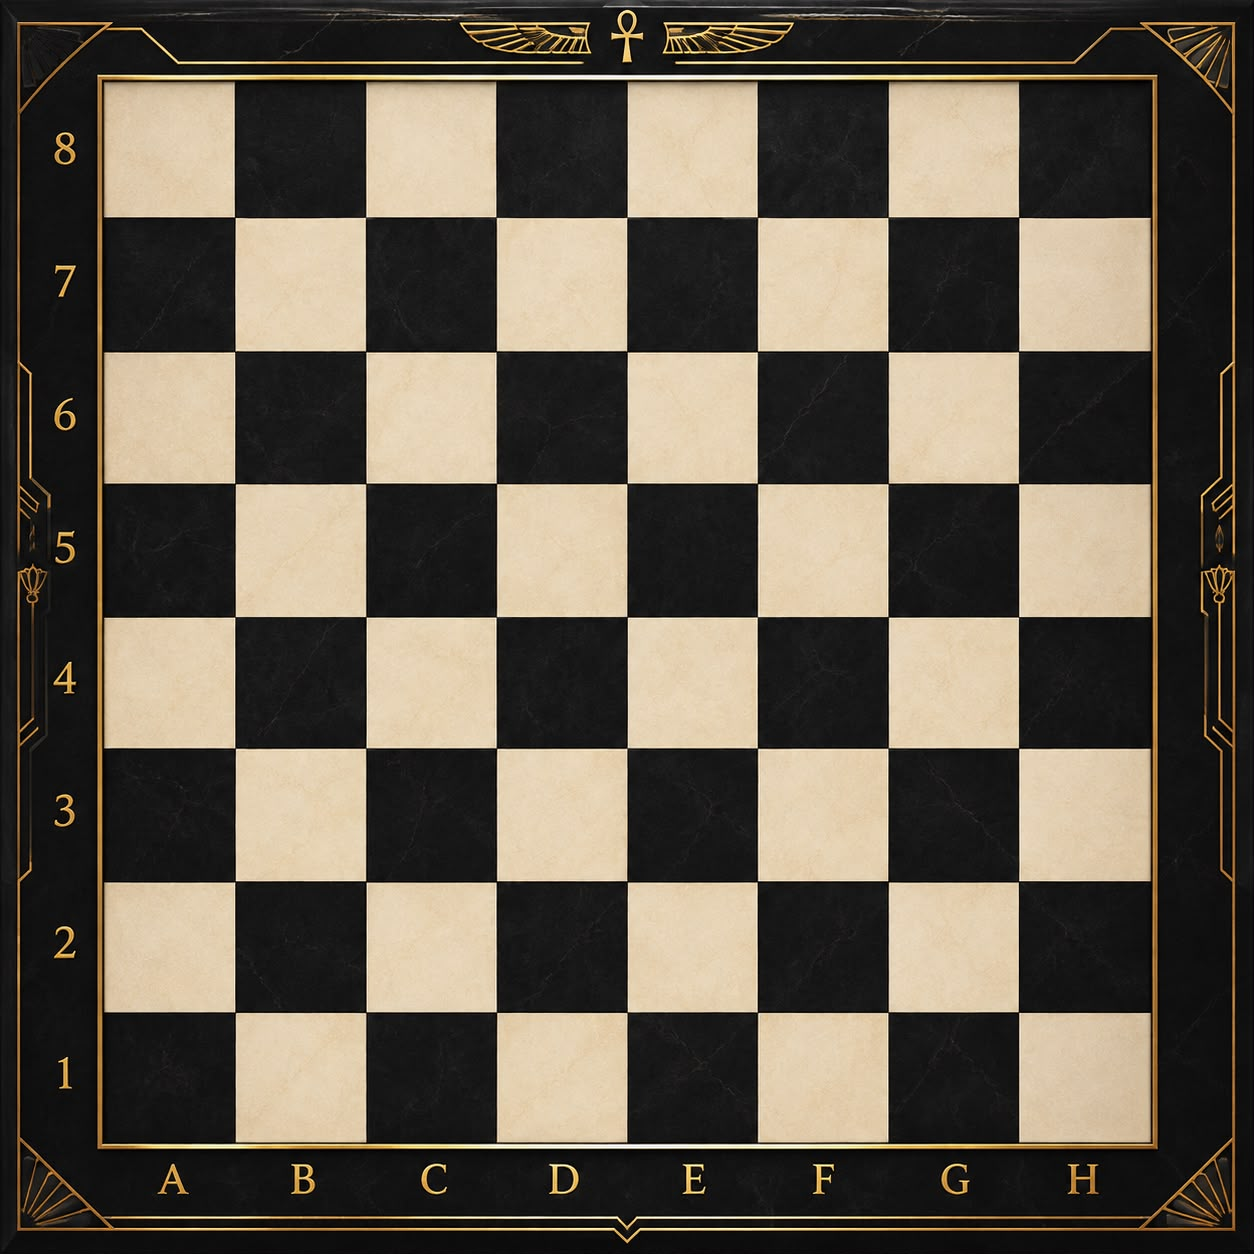
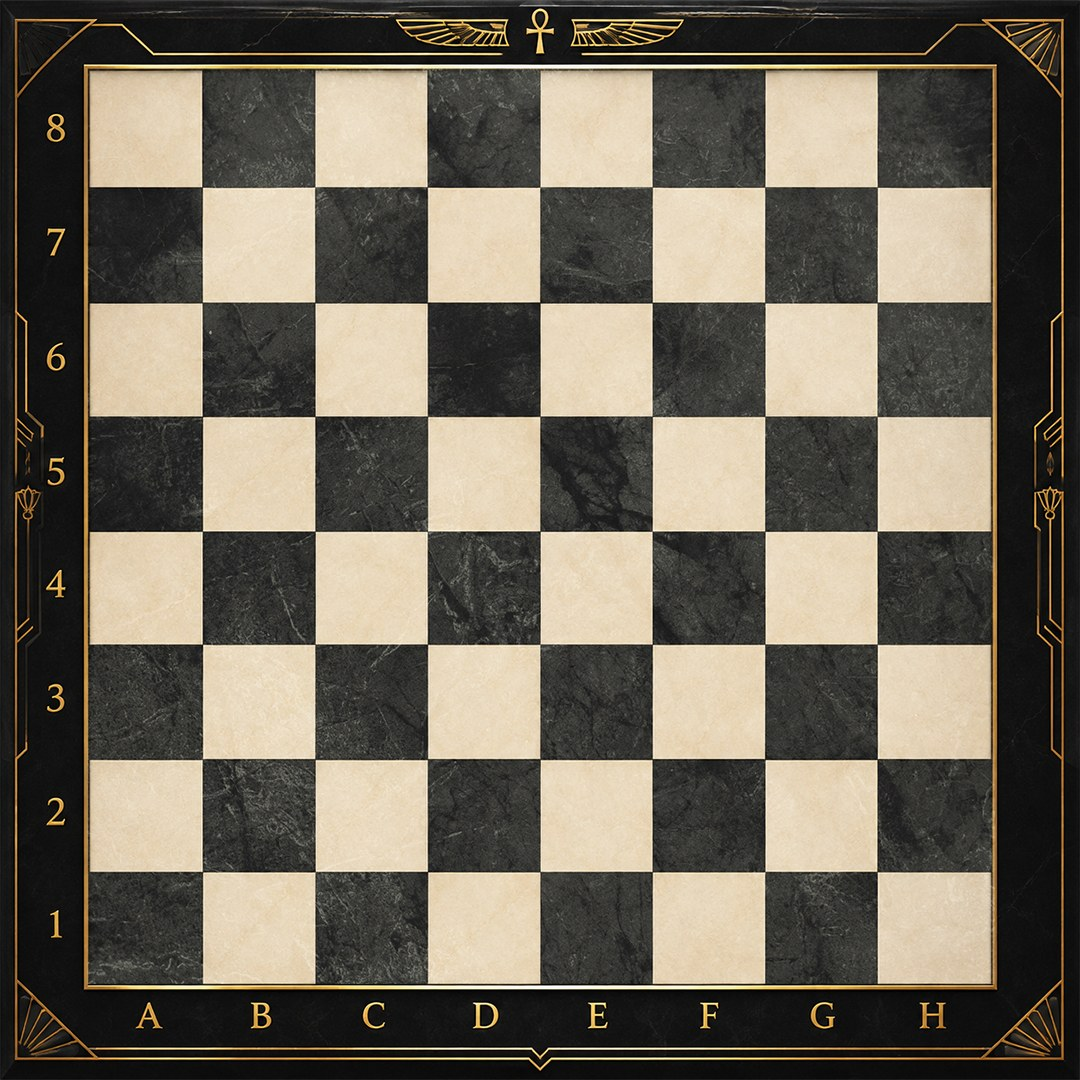
Chess: show capture questions on an unrolling scroll over the board
The question opens on a parchment scroll between the attacking and
threatened pieces, with the board blurred behind it. Each choice has a
small pawn; on reveal the pawns show who picked which answer. Also
updates the board image.

diff --git a/src/components/room/ChessGame.tsx b/src/components/room/ChessGame.tsx
@@ -7,7 +7,7 @@ import { sounds } from "@/lib/sound";
 import { teamInfo } from "@/lib/teams";
 import type { ChessColor, ChessEvent, ChessState, Player, Room } from "@/lib/types";
 import { ErrorBox } from "../ui";
-import { msLeft, TimerBar, useServerNow } from "./QuestionView";
+import { msLeft, useServerNow } from "./QuestionView";
 
 type Call = (fn: string, args?: Record<string, unknown>) => Promise<unknown>;
 
@@ -129,8 +129,12 @@ export function ChessGame({
         ? "🏁 انتهت اللعبة"
         : "❓ سؤال الأكل";
 
+  // أثناء سؤال الأكل يظهر السؤال على ورقة فوق الرقعة
+  const asking = c.phase === "question" || c.phase === "reveal";
   return (
     <section className="mx-auto w-full max-w-2xl space-y-3">
+      {asking && error && <ErrorBox>{error}</ErrorBox>}
+
       <SideBar c={c} color={mine === "w" ? "b" : "w"} turn={turn} players={players} name={name} />
 
       <div className="relative">
@@ -144,25 +148,21 @@ export function ChessGame({
           name={name}
           onMove={play}
         />
+        {asking && (
+          <CaptureQuestion room={room} c={c} mine={mine} isCaptain={isCaptain} now={now} onAnswer={act} />
+        )}
         <CaptureShow c={c} />
       </div>
 
       <SideBar c={c} color={mine === "b" ? "b" : "w"} turn={turn} players={players} name={name} />
 
-      <div className="space-y-3 rounded-3xl border border-white/10 bg-white/5 p-4 text-center">
-        <p className="text-lg font-black">{status}</p>
-        {(c.phase === "question" || c.phase === "reveal") && (
-          <CaptureQuestion room={room} c={c} mine={mine} isCaptain={isCaptain} players={players} onAnswer={act} />
-        )}
-        {c.phase === "move" && <p className="text-sm text-indigo-200">{lastText(c, players)}</p>}
-        {error && <ErrorBox>{error}</ErrorBox>}
-        {(c.phase === "question" || c.phase === "reveal") && (
-          <TimerBar
-            seconds={msLeft(room.question_deadline, now)}
-            total={c.phase === "question" ? room.question_seconds : REVEAL_SECONDS}
-          />
-        )}
-      </div>
+      {!asking && (
+        <div className="space-y-3 rounded-3xl border border-white/10 bg-white/5 p-4 text-center">
+          <p className="text-lg font-black">{status}</p>
+          {c.phase === "move" && <p className="text-sm text-indigo-200">{lastText(c, players)}</p>}
+          {error && <ErrorBox>{error}</ErrorBox>}
+        </div>
+      )}
 
       {/* اقتراحات الفريق */}
       {c.phase === "move" && mine === turn && suggestions.length > 0 && (
@@ -462,99 +462,164 @@ function Board({
 
 // ---------- سؤال الأكل ----------
 
+// حافة الورقة الممزقة (نقاط ثابتة حتى لا تتغير بين الرسومات)
+const TORN = (() => {
+  const top: string[] = [];
+  const bottom: string[] = [];
+  for (let i = 0; i <= 40; i++) {
+    const x = i * 2.5;
+    top.push(`${x}% ${(1.2 + Math.sin(i * 2.3) * 1.1 + Math.sin(i * 5.1) * 0.6).toFixed(2)}%`);
+    bottom.unshift(`${x}% ${(98.8 - Math.sin(i * 1.7 + 1) * 1.1 - Math.sin(i * 4.3) * 0.6).toFixed(2)}%`);
+  }
+  return `polygon(${[...top, ...bottom].join(",")})`;
+})();
+
+/** سؤال الأكل: ورقة تنفتح بين المهاجم والمدافع فوق الرقعة، والاختيارات بجانبها عساكر */
 function CaptureQuestion({
   room,
   c,
   mine,
   isCaptain,
-  players,
+  now,
   onAnswer,
 }: {
   room: Room;
   c: ChessState;
   mine: ChessColor | null;
   isCaptain: boolean;
-  players: Player[];
+  now: number;
   onAnswer: (fn: string, args: Record<string, unknown>) => void;
 }) {
   const q = room.question;
   const p = c.pending;
   if (!q || !p) return null;
+  const foe: ChessColor = p.by === "w" ? "b" : "w";
   const reveal = c.phase === "reveal" ? c.reveal : null;
   const canAnswer = c.phase === "question" && isCaptain && mine != null && !c.answered[mine];
   const myChoice = reveal && mine ? reveal[mine] : null;
+  const pawn = mine ?? p.by;
+  const total = c.phase === "question" ? room.question_seconds : REVEAL_SECONDS;
+  const left = msLeft(room.question_deadline, now);
+  const pct = Math.max(0, Math.min(100, (left / (total * 1000)) * 100));
+  const img = (color: ChessColor, piece: string) => chessImg(`pieces/${color}${piece}.png`);
+
+  const result = reveal
+    ? reveal.ok
+      ? p.k < p.need
+        ? `✅ صح! السؤال التالي (${p.k + 1} من ${p.need})`
+        : `✅ صح! ${PIECE_NAME[p.captured]} تُؤكل`
+      : reveal[p.by === "w" ? "w_ok" : "b_ok"]
+        ? `🛡 ${COLOR_NAME[foe]} أجاب صح أسرع! الحركة أُلغيت`
+        : "❌ خطأ! الحركة أُلغيت"
+    : null;
 
   return (
-    <div className="space-y-3">
-      <p className="rounded-2xl bg-rose-500/15 px-3 py-2 text-sm">
-        {/* eslint-disable-next-line @next/next/no-img-element */}
-        <img src={chessImg(`pieces/${p.by}${p.piece}.png`)} alt="" className="inline-block h-6 w-6 align-middle" />{" "}
-        {COLOR_NAME[p.by]} ({sideName(c, p.by, players)}) يهاجم {PIECE_NAME[p.captured]}{" "}
-        <span dir="ltr">({p.san})</span>
-        {p.need > 1 && (
-          <b>
-            {" "}
-            • سؤال {p.k} من {p.need}
-          </b>
-        )}
-        <br />
-        <span className="text-xs text-indigo-200">
-          إجابة المهاجم الصحيحة = تُؤكل القطعة، والخاطئة = تُلغى الحركة. وإن أجاب الاثنان صح، الأسرع يفوز.
-        </span>
-      </p>
-      <p className="text-xs text-indigo-200">
-        {q.icon} {q.category}
-      </p>
-      <h3 className="text-xl font-black leading-relaxed">{q.text}</h3>
-      <div className="grid grid-cols-2 gap-2">
-        {q.options.map((opt, i) => {
-          const correct = reveal && reveal.correct === i;
-          const wrongMine = reveal && myChoice === i && !correct;
-          return (
-            <button
-              key={i}
-              onClick={() => onAnswer("chess_answer", { p_choice: i })}
-              disabled={!canAnswer}
-              className={`rounded-2xl px-3 py-3 font-bold transition ${
-                correct
-                  ? "bg-emerald-500 text-white"
-                  : wrongMine
-                    ? "bg-rose-500 text-white"
-                    : canAnswer
-                      ? "bg-white/10 hover:bg-indigo-500/40"
-                      : "bg-white/10 opacity-70"
-              }`}
-            >
-              {opt}
-              {reveal && (["w", "b"] as const).some((col) => reveal[col] === i) && (
-                <span className="block text-xs font-normal opacity-90">
-                  {(["w", "b"] as const)
-                    .filter((col) => reveal[col] === i)
-                    .map((col) => COLOR_NAME[col])
-                    .join(" و")}
-                </span>
+    <div
+      key={room.current_index}
+      className="scroll-backdrop absolute inset-0 z-10 mx-auto flex aspect-square max-w-[480px] items-center overflow-y-auto rounded-lg bg-black/45 px-[3%] pb-[3%] pt-[13%] backdrop-blur-[3px]"
+    >
+      <div className="relative w-full" dir="ltr">
+        {/* الورقة */}
+        <div className="scroll-paper mx-[3%] drop-shadow-[0_8px_14px_#000a]">
+          <div className="parchment px-[9%] pb-4 pt-[9%] text-[#3b2410]" style={{ clipPath: TORN }} dir="rtl">
+            <div className="scroll-content space-y-2.5 text-center">
+              <p className="text-xs font-bold text-[#7a5226]">
+                ⚔ {PIECE_NAME[p.piece]} {COLOR_NAME[p.by]} يهاجم {PIECE_NAME[p.captured]}
+                {p.need > 1 && ` • سؤال ${p.k} من ${p.need}`}
+                <span className="mx-1 opacity-50">|</span>
+                {q.icon} {q.category}
+              </p>
+              <h3 className="text-base font-black leading-relaxed sm:text-lg">{q.text}</h3>
+
+              <div className="grid grid-cols-2 gap-1.5">
+                {q.options.map((opt, i) => {
+                  const correct = reveal && reveal.correct === i;
+                  const wrongMine = reveal && myChoice === i && !correct;
+                  const choosers = reveal ? (["w", "b"] as const).filter((col) => reveal[col] === i) : [];
+                  return (
+                    <button
+                      key={i}
+                      onClick={() => onAnswer("chess_answer", { p_choice: i })}
+                      disabled={!canAnswer}
+                      className={`flex items-center gap-1.5 rounded-xl border px-2 py-1.5 text-start text-sm font-bold transition ${
+                        correct
+                          ? "border-emerald-900 bg-emerald-700 text-white"
+                          : wrongMine
+                            ? "border-rose-900 bg-rose-700 text-white"
+                            : canAnswer
+                              ? "border-[#7a5226]/40 bg-[#7a5226]/10 hover:border-[#7a5226] hover:bg-amber-300/50 active:scale-[0.98]"
+                              : "border-[#7a5226]/25 bg-[#7a5226]/5 opacity-80"
+                      }`}
+                    >
+                      <span className="flex shrink-0">
+                        {(choosers.length ? choosers : [pawn]).map((col) => (
+                          // eslint-disable-next-line @next/next/no-img-element
+                          <img
+                            key={col}
+                            src={img(col, "p")}
+                            alt=""
+                            className={`h-7 w-7 drop-shadow ${choosers.length || !reveal ? "" : "opacity-30"}`}
+                          />
+                        ))}
+                      </span>
+                      <span className="min-w-0 flex-1 break-words leading-snug">{opt}</span>
+                    </button>
+                  );
+                })}
+              </div>
+
+              {result ? (
+                <p className={`font-black ${reveal?.ok ? "text-emerald-800" : "text-rose-800"}`}>{result}</p>
+              ) : (
+                <p className="flex items-center justify-center gap-3 text-xs font-bold text-[#7a5226]">
+                  {(["w", "b"] as const).map((col) => (
+                    <span key={col} className="flex items-center gap-0.5">
+                      {/* eslint-disable-next-line @next/next/no-img-element */}
+                      <img src={img(col, "p")} alt="" className="h-4 w-4" />
+                      {COLOR_NAME[col]} {c.answered[col] ? "✅" : "⏳"}
+                    </span>
+                  ))}
+                </p>
               )}
-            </button>
+
+              {/* الوقت */}
+              <div className="flex items-center gap-2" dir="ltr">
+                <div className="h-1.5 flex-1 overflow-hidden rounded-full bg-[#7a5226]/25">
+                  <div
+                    className={`h-full rounded-full transition-[width] duration-200 ease-linear ${
+                      left <= 3000 ? "bg-rose-700" : "bg-[#8a5a1c]"
+                    }`}
+                    style={{ width: `${pct}%` }}
+                  />
+                </div>
+                <span className="w-6 text-xs font-black tabular-nums">{Math.ceil(left / 1000)}</span>
+              </div>
+            </div>
+          </div>
+        </div>
+
+        {/* العصوان ملفوفتان على الطرفين، وعليهما القطعتان */}
+        {(["left", "right"] as const).map((side) => {
+          const color = side === "left" ? p.by : foe;
+          const piece = side === "left" ? p.piece : p.captured;
+          return (
+            <div
+              key={side}
+              className={`scroll-rod-${side} scroll-rod absolute -bottom-1 -top-1 w-[5%] rounded-full`}
+              style={{ [side]: 0 }}
+            >
+              {/* eslint-disable-next-line @next/next/no-img-element */}
+              <img
+                src={img(color, piece)}
+                alt={PIECE_NAME[piece]}
+                className={`scroll-piece absolute -top-[min(15vw,72px)] h-[min(21vw,100px)] w-[min(21vw,100px)] max-w-none drop-shadow-[0_6px_6px_#000c] ${
+                  side === "left" ? "-left-[min(8vw,38px)]" : "-right-[min(8vw,38px)]"
+                }`}
+              />
+            </div>
           );
         })}
       </div>
-      {c.phase === "question" ? (
-        <p className="text-sm text-indigo-200">
-          {(["w", "b"] as const).map((col) => `${COLOR_NAME[col]}: ${c.answered[col] ? "✅ أجاب" : "⏳"}`).join(" • ")}
-        </p>
-      ) : (
-        reveal && (
-          <p className={`text-lg font-black ${reveal.ok ? "text-emerald-300" : "text-rose-300"}`}>
-            {reveal.ok
-              ? p.k < p.need
-                ? `✅ صح! السؤال التالي (${p.k + 1} من ${p.need})`
-                : `✅ صح! ${PIECE_NAME[p.captured]} تُؤكل`
-              : reveal[p.by === "w" ? "w_ok" : "b_ok"]
-                ? `🛡 ${COLOR_NAME[p.by === "w" ? "b" : "w"]} أجاب صح أسرع! الحركة أُلغيت`
-                : "❌ خطأ! الحركة أُلغيت"}
-          </p>
-        )
-      )}
     </div>
   );
 }
@@ -665,28 +730,30 @@ function HostControls({
 /** رابط صورة من public/chess (مع مسار النشر على GitHub Pages) */
 export const chessImg = (file: string) => `${process.env.NEXT_PUBLIC_BASE_PATH ?? ""}/chess/${file}`;
 
-// مكان المربعات الـ 64 داخل صورة اللوحة (board.jpeg مقاسها 1254×1254)
+// مكان المربعات الـ 64 داخل صورة اللوحة (board.jpeg مقاسها 1080×1080)
+const BOARD_PX = 1080;
+const AREA = { x: 90, y: 72, w: 901, h: 912 };
 const BOARD_AREA = {
-  left: `${(105 / 1254) * 100}%`,
-  top: `${(84 / 1254) * 100}%`,
-  width: `${(1045 / 1254) * 100}%`,
-  height: `${(1058 / 1254) * 100}%`,
+  left: `${(AREA.x / BOARD_PX) * 100}%`,
+  top: `${(AREA.y / BOARD_PX) * 100}%`,
+  width: `${(AREA.w / BOARD_PX) * 100}%`,
+  height: `${(AREA.h / BOARD_PX) * 100}%`,
 };
 
 /** للاعب الأسود اللوحة مقلوبة: نغطي حروف وأرقام الإطار ونكتبها بترتيبه */
 function FlippedLabels() {
-  const cell = (i: number, size: number, start: number) => `${((start + size * (i + 0.5)) / 1254) * 100}%`;
+  const cell = (i: number, size: number, start: number) => `${((start + size * (i + 0.5)) / BOARD_PX) * 100}%`;
   const label =
     "absolute -translate-x-1/2 -translate-y-1/2 rounded bg-[#151515] px-1.5 font-serif text-[min(4vw,20px)] text-[#d4a84b]";
   return (
     <div className="pointer-events-none absolute inset-0">
       {Array.from({ length: 8 }, (_, i) => (
-        <span key={`r${i}`} className={label} style={{ left: "5.1%", top: cell(i, 132.25, 84) }}>
+        <span key={`r${i}`} className={label} style={{ left: "5.1%", top: cell(i, AREA.h / 8, AREA.y) }}>
           {i + 1}
         </span>
       ))}
       {Array.from({ length: 8 }, (_, i) => (
-        <span key={`f${i}`} className={label} style={{ left: cell(i, 130.6, 105), top: "94.1%" }}>
+        <span key={`f${i}`} className={label} style={{ left: cell(i, AREA.w / 8, AREA.x), top: "94%" }}>
           {"HGFEDCBA"[i]}
         </span>
       ))}

diff --git a/src/app/globals.css b/src/app/globals.css
@@ -107,3 +107,34 @@ body {
 @media (prefers-reduced-motion: reduce) {
   .capture-spark, .capture-flash { display: none; }
 }
+
+/* سؤال الشطرنج: ورقة تنفتح بين القطعتين فوق رقعة مموّهة */
+@keyframes scroll-fade { from { opacity: 0; } to { opacity: 1; } }
+@keyframes scroll-open { from { clip-path: inset(0 50% 0 50%); } to { clip-path: inset(0 0 0 0); } }
+@keyframes scroll-rod-left { from { left: calc(50% - 2.5%); } to { left: 0; } }
+@keyframes scroll-rod-right { from { right: calc(50% - 2.5%); } to { right: 0; } }
+@keyframes scroll-piece-in {
+  0% { transform: translateY(-40%) scale(0.6); opacity: 0; }
+  70% { transform: translateY(4%) scale(1.05); opacity: 1; }
+  100% { transform: translateY(0) scale(1); opacity: 1; }
+}
+.scroll-backdrop { animation: scroll-fade 0.3s ease-out both; }
+.scroll-paper { animation: scroll-open 0.75s cubic-bezier(0.65, 0, 0.35, 1) 0.15s both; }
+.scroll-rod-left { animation: scroll-rod-left 0.75s cubic-bezier(0.65, 0, 0.35, 1) 0.15s both; }
+.scroll-rod-right { animation: scroll-rod-right 0.75s cubic-bezier(0.65, 0, 0.35, 1) 0.15s both; }
+.scroll-piece { animation: scroll-piece-in 0.5s ease-out both; }
+.scroll-content { animation: scroll-fade 0.35s ease-out 0.7s both; }
+.parchment {
+  background:
+    radial-gradient(ellipse at 30% 20%, #fff6dc80 0%, transparent 55%),
+    radial-gradient(ellipse at 75% 80%, #b8894a40 0%, transparent 60%),
+    linear-gradient(90deg, #c9a265 0%, #e9d1a0 10%, #f4e4bd 50%, #e9d1a0 90%, #c9a265 100%);
+  box-shadow: inset 0 0 18px #7a522680;
+}
+.scroll-rod {
+  background: linear-gradient(90deg, #6b4a22 0%, #c9a265 30%, #f3dfae 50%, #b58a4c 75%, #5e3f1b 100%);
+  box-shadow: 0 4px 10px #0008;
+}
+@media (prefers-reduced-motion: reduce) {
+  .scroll-paper, .scroll-rod-left, .scroll-rod-right, .scroll-piece, .scroll-content { animation-duration: 0.01s; animation-delay: 0s; }
+}
